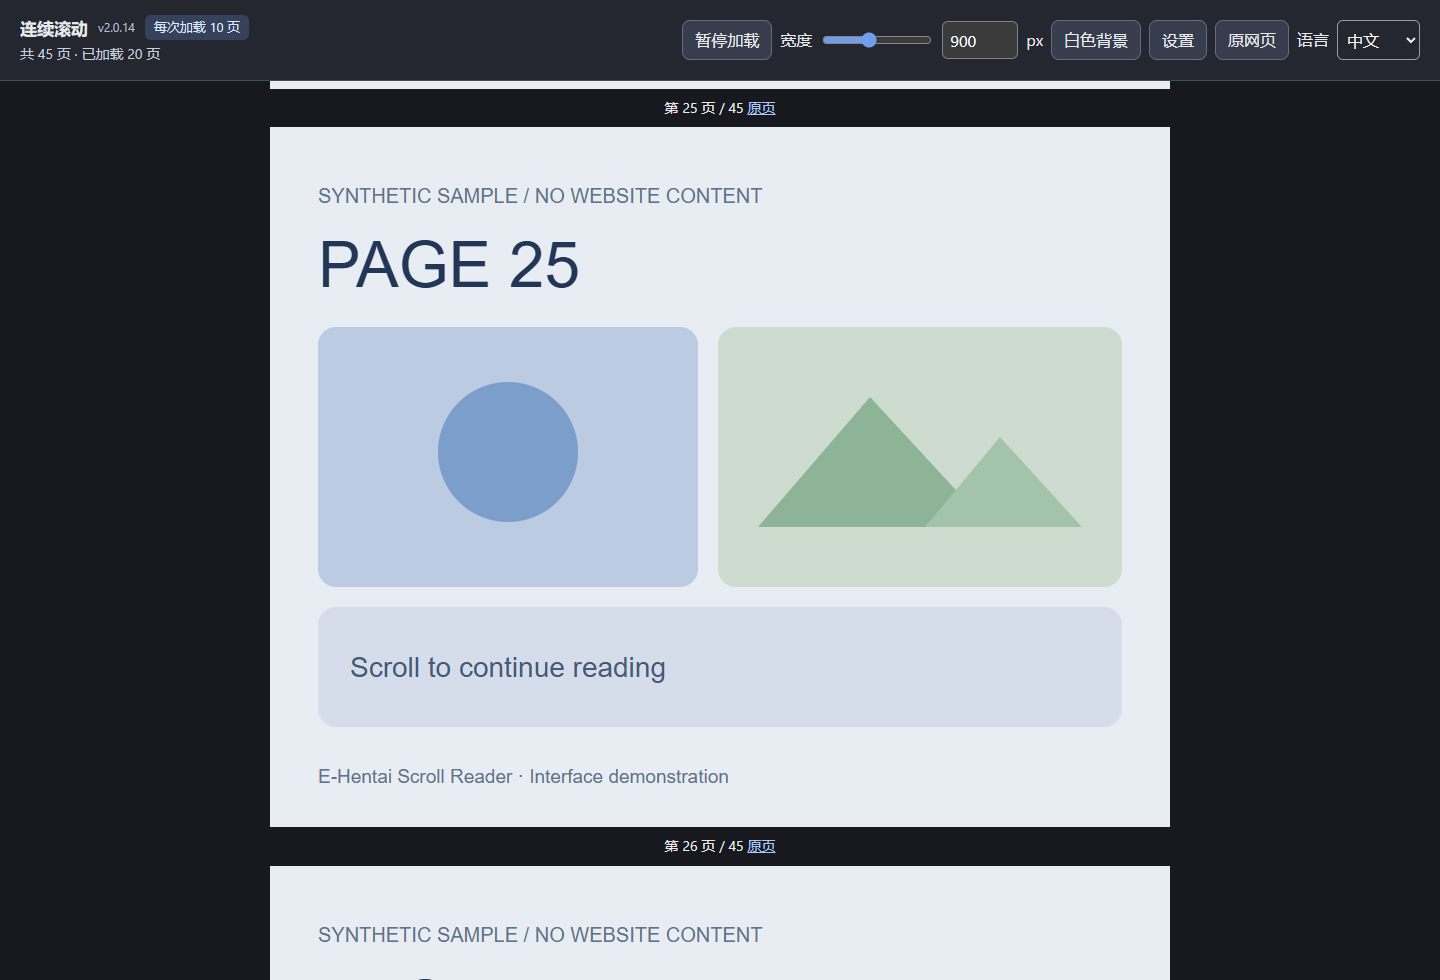
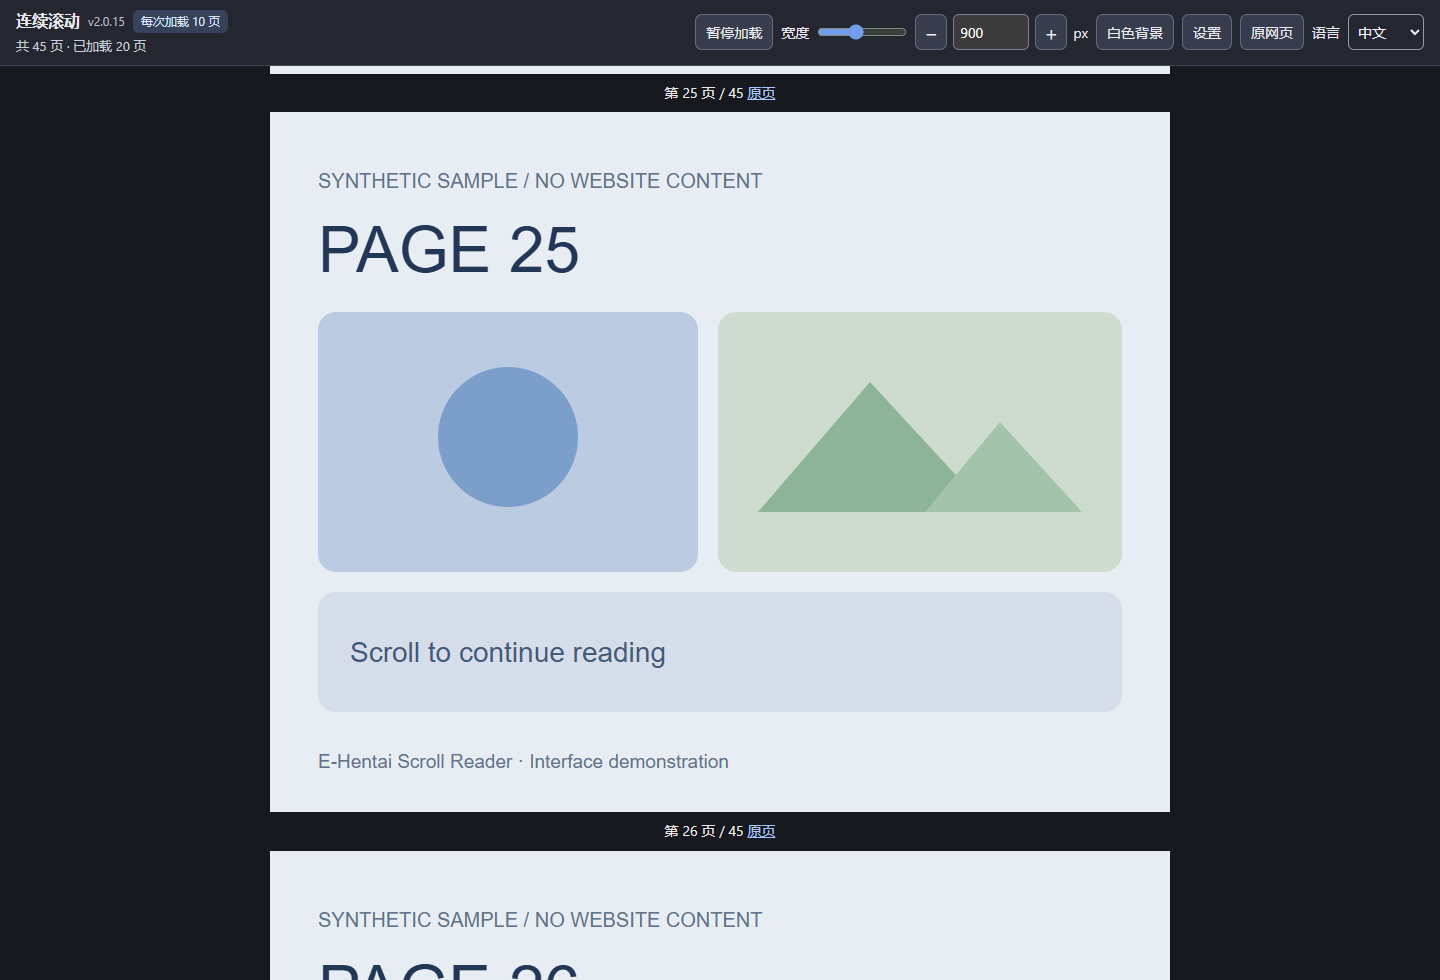
Release v2.0.15: responsive toolbar and width controls

diff --git a/reader.js b/reader.js
@@ -74,27 +74,46 @@
     :host([data-theme="light"]) #reader-settings-dialog{background:#fff;color:#20242b}
     :host([data-theme="light"]) #reader-settings-dialog small{color:#555}
     :host([data-theme="light"]) #reader-settings-dialog button{background:#eee;color:#20242b}
-    header{background:#242730;padding:12px 20px;gap:12px 24px;justify-content:space-between;font:16px/1.45 system-ui,-apple-system,"Segoe UI",sans-serif;border-bottom:1px solid #434a58}
-    .reader-summary{display:flex;flex-direction:column;gap:4px;flex:0 1 auto;text-align:left}
-    .reader-title{display:flex;align-items:center;gap:10px;flex-wrap:wrap}
-    .reader-title strong{font-size:17px;font-weight:650;white-space:nowrap}
+    header{background:#242730;padding:10px 16px;gap:10px 20px;justify-content:space-between;font:14px/1.4 system-ui,-apple-system,"Segoe UI",sans-serif;border-bottom:1px solid #434a58}
+    .reader-summary{display:flex;flex-direction:column;gap:4px;text-align:left;min-width:0}
+    .reader-title{display:flex;align-items:center;gap:8px;flex-wrap:wrap}
+    .reader-title strong{font-size:16px;font-weight:650;white-space:nowrap}
     .version{font-size:12px;color:#b7bed0}
-    .mode-badge{font-size:13px;padding:3px 9px;border-radius:6px;background:#354259;color:#dce8ff;white-space:nowrap}
-    #status{font-size:14px;color:#c6cedb;font-variant-numeric:tabular-nums}
-    #toolbar-actions{display:flex;align-items:center;justify-content:flex-end;gap:8px;flex-wrap:wrap;min-width:0}
-    #toolbar-actions button,#toolbar-actions select{font:inherit;min-height:40px;padding:7px 12px;border-radius:8px;white-space:nowrap;flex-shrink:0}
-    #toolbar-actions label{display:flex;align-items:center;gap:8px;white-space:nowrap}
-    #toolbar-actions input{font:inherit}
-    #width{width:110px;min-width:60px;accent-color:#729de9}
-    #width-number{height:38px;padding:4px 7px;border:1px solid #788298;border-radius:6px;font-variant-numeric:tabular-nums}
+    .mode-badge{font-size:12px;padding:3px 8px;border-radius:6px;background:#354259;color:#dce8ff}
+    #status{font-size:13px;color:#c6cedb;font-variant-numeric:tabular-nums}
+    #toolbar-actions{display:flex;align-items:center;gap:8px;flex-wrap:wrap;min-width:0}
+    #toolbar-actions button,#toolbar-actions select{font:inherit;min-height:36px;padding:6px 10px;border-radius:7px;white-space:nowrap}
+    #toolbar-actions>label{display:flex;align-items:center;gap:8px;margin:0!important;white-space:nowrap}
+    .width-control{display:flex;align-items:center;gap:6px;min-width:0}
+    .width-control label{white-space:nowrap}
+    #toolbar-actions input{font:inherit;min-width:0}
+    #width{width:90px;accent-color:#729de9}
+    #width-number{height:36px;padding:4px 6px;border:1px solid #788298;border-radius:6px;font-variant-numeric:tabular-nums}
+    #toolbar-actions #width-minus,#toolbar-actions #width-plus{width:32px;min-width:32px;padding:0;font-size:20px}
+    #toolbar-actions button:disabled{opacity:.45;cursor:default}
     #preference-status:empty{display:none}
     :host([data-theme="light"]) header{background:#fff;border-color:#d8dde5}
     :host([data-theme="light"]) header button{background:#f5f6f8;border-color:#c8ced8}
     :host([data-theme="light"]) .mode-badge{background:#e9effa;color:#2a4e85}
     :host([data-theme="light"]) #status,:host([data-theme="light"]) .version{color:#596273}
-    @media(max-width:1200px){#toolbar-actions{flex:1 1 100%;justify-content:flex-start}header{gap:10px}.reader-summary{flex-direction:row;align-items:center;gap:16px;flex-wrap:wrap}}
-    @media(max-width:600px){header{padding:10px;font-size:14px}#width{width:75px}.reader-title strong{font-size:16px}.reader-summary{gap:6px}#toolbar-actions{gap:6px}}
-  </style><div id="reader"><header><div class="reader-summary"><div class="reader-title"><strong>连续滚动</strong><span class="version">v2.0.14</span><span class="mode-badge">${BATCH ? '每次加载 10 页' : '全部加载'}</span></div><span id="status" role="status"></span></div><div id="toolbar-actions"><button id="pause">暂停加载</button><button id="retry" hidden>重试失败项</button><label class="width-control">宽度 <input id="width" type="range" min="400" max="1600" step="10" value="1000"><input id="width-number" aria-label="漫画宽度" type="number" min="400" max="1600" step="10" value="1000" style="width:76px"> px</label><button id="theme" aria-label="切换黑白背景">白色背景</button><span id="preference-status" role="status"></span><button id="settings">设置</button><button id="original">原网页</button></div></header><div id="help"></div><main></main><footer id="sentinel"></footer></div><button id="resume" hidden>回到滚动阅读</button>`;
+    @media(max-width:1300px){
+      header{display:grid;grid-template-columns:minmax(0,1fr);padding:10px 14px}
+      .reader-summary{flex-direction:row;align-items:center;justify-content:space-between;flex-wrap:wrap;gap:6px 16px}
+      #toolbar-actions{display:grid;grid-template-columns:auto minmax(240px,1fr) auto auto auto auto}
+      .width-control{grid-column:2;grid-row:1}#width{flex:1;width:60px}
+      #theme{grid-column:3;grid-row:1}#settings{grid-column:4;grid-row:1}#original{grid-column:5;grid-row:1}
+      #toolbar-actions>label{grid-column:6;grid-row:1}#pause{grid-column:1;grid-row:1}
+      #retry,#preference-status{grid-column:1/-1;justify-self:start}
+    }
+    @media(max-width:850px){
+      #toolbar-actions{grid-template-columns:repeat(4,minmax(0,1fr)) auto;gap:8px}
+      .width-control{grid-column:1/-1;grid-row:1}
+      #pause{grid-column:1;grid-row:2}#theme{grid-column:2;grid-row:2}#settings{grid-column:3;grid-row:2}#original{grid-column:4;grid-row:2}
+      #toolbar-actions>label{grid-column:5;grid-row:2;justify-self:end}
+    }
+    @media(max-width:700px){#toolbar-actions{grid-template-columns:repeat(4,minmax(0,1fr))}#toolbar-actions>label{grid-column:1/-1;grid-row:3}}
+    @media(max-width:480px){header{padding:8px}.reader-summary{align-items:flex-start}#toolbar-actions{grid-template-columns:repeat(2,minmax(0,1fr))}#settings{grid-column:1;grid-row:3}#original{grid-column:2;grid-row:3}#toolbar-actions>label{grid-row:4}}
+  </style><div id="reader"><header><div class="reader-summary"><div class="reader-title"><strong>连续滚动</strong><span class="version">v2.0.15</span><span class="mode-badge">${BATCH ? '每次加载 10 页' : '全部加载'}</span></div><span id="status" role="status"></span></div><div id="toolbar-actions"><button id="pause">暂停加载</button><button id="retry" hidden>重试失败项</button><div class="width-control"><label for="width">宽度</label> <input id="width" type="range" min="400" max="1600" step="10" value="1000"><button type="button" id="width-minus" aria-label="减小宽度" title="减小宽度（10 px）">−</button><input id="width-number" aria-label="漫画宽度" type="number" min="400" max="1600" step="10" value="1000" style="width:76px"><button type="button" id="width-plus" aria-label="增加宽度" title="增加宽度（10 px）">+</button><span>px</span></div><button id="theme" aria-label="切换黑白背景">白色背景</button><span id="preference-status" role="status"></span><button id="settings">设置</button><button id="original">原网页</button></div></header><div id="help"></div><main></main><footer id="sentinel"></footer></div><button id="resume" hidden>回到滚动阅读</button>`;
   const q = selector => shadow.querySelector(selector);
   q('#settings').onclick = () => globalThis.openReaderSettings(shadow, mode);
   const main = q('main');
@@ -104,6 +123,8 @@
     main.style.setProperty('--width', preferredWidth+'px');
     q('#width').value=preferredWidth;
     q('#width-number').value=preferredWidth;
+    q('#width-minus').disabled=preferredWidth<=400;
+    q('#width-plus').disabled=preferredWidth>=1600;
   }
   async function savePreference(value) {
     try { await chrome.storage.local.set(value);q('#preference-status').textContent=''; }
@@ -117,6 +138,11 @@
   q('#theme').onclick=()=>{applyTheme(host.dataset.theme==='light'?'dark':'light');savePreference({theme:host.dataset.theme});};
   q('#width-number').onchange=e=>{applyWidth(e.target.value);savePreference({width:preferredWidth});checkBottom();};
   q('#width').onchange=()=>savePreference({width:preferredWidth});
+  for(const [id,step] of [['#width-minus',-10],['#width-plus',10]])q(id).onclick=()=>{
+    const position=captureReadingPosition();
+    applyWidth(preferredWidth+step);restoreReadingPosition(position);
+    savePreference({width:preferredWidth});checkBottom();
+  };
   document.body.prepend(host);
   const style = document.createElement('style');
   style.textContent = 'html.continuous-reader-active body{margin:0!important;padding:0!important;min-width:0!important}html.continuous-reader-active body>*:not(#continuous-reader-host){display:none!important}';

diff --git a/i18n.js b/i18n.js
@@ -3,6 +3,8 @@ globalThis.readerI18n = (() => {
   let language = 'en';
   const roots = new Set(), originals = new WeakMap(), attributes = new WeakMap();
   const dictionary = {
+    '减小宽度':'Decrease width','增加宽度':'Increase width',
+    '减小宽度（10 px）':'Decrease width (10 px)','增加宽度（10 px）':'Increase width (10 px)',
     '模式和语言将在点击“应用并刷新”后一起保存。取消或关闭不会保存这次选择。':'Mode and language are saved together when you click Apply and reload. Cancel or close to discard your changes.',
     '选择模式和语言后，点击应用一起保存并刷新当前阅读页。':'Choose a mode and language, then click Apply to save both and reload the current reader.',
     '全部加载完成':'All images loaded',

diff --git a/README.md b/README.md
@@ -1,6 +1,6 @@
 # E-Hentai Scroll Reader
 
-[简体中文](README.zh-CN.md) · Version 2.0.14 · [MIT License](LICENSE)
+[简体中文](README.zh-CN.md) · Version 2.0.15 · [MIT License](LICENSE)
 
 An unofficial Chrome extension that turns E-Hentai's single-image reader into a continuous scrolling reader. Open a page and start there, with earlier and later pages still available above and below.
 
@@ -17,6 +17,10 @@ The screenshots use generated sample pages, not website or manga content.
 
 All page positions are created upfront. An empty page position does not mean the image has finished downloading. The loaded counter counts successful images. Batch boundaries near the start or end may contain fewer than 10 pages; nearby batches can overlap in time.
 
+## Toolbar update
+
+The toolbar groups controls into aligned rows in split-screen windows. Use the width **− / +** buttons to adjust by 10 px; changes are saved automatically.
+
 ## Features
 
 - English and Chinese interface; English on first use.
@@ -29,7 +33,7 @@ All page positions are created upfront. An empty page position does not mean the
 
 ## Install
 
-1. In this repository's **Releases** section, download the attached `ehentai-scroll-reader-v2.0.14.zip` file. Alternatively, use **Code → Download ZIP** for the source.
+1. In this repository's **Releases** section, download the attached `ehentai-scroll-reader-v2.0.15.zip` file. Alternatively, use **Code → Download ZIP** for the source.
 2. Extract the ZIP to a folder you will keep. Do not select or drag the ZIP itself into Chrome.
 3. Open `chrome://extensions` and turn on **Developer mode**.
 4. Click **Load unpacked** and choose the extracted folder containing `manifest.json` directly inside it.

diff --git a/docs/RELEASE-v2.0.15.md b/docs/RELEASE-v2.0.15.md
@@ -1,0 +1,21 @@
+# E-Hentai Scroll Reader v2.0.15
+
+## English
+- Cleaner toolbar layout for split-screen and narrow windows.
+- New width − / + buttons: adjust by 10 px and save automatically.
+- Both loading modes remain unchanged.
+
+Download ehentai-scroll-reader-v2.0.15.zip and extract it. Replace the files in your installed extension folder, reload the extension on chrome://extensions, then refresh the reading page. New users: enable Developer mode and choose Load unpacked for the folder containing manifest.json.
+
+Verified with local synthetic Chrome pages: English/Chinese layouts at widths 390–1920 px, width buttons, limits, saving, and position restoration after settings. Live-site testing has not been performed for this release.
+
+## 简体中文
+- 优化分屏和窄窗口工具栏排版，按钮整齐分行。
+- 新增宽度 − / ＋，每次调整 10 px，自动保存。
+- 两种加载模式保持不变。
+
+下载并解压 ehentai-scroll-reader-v2.0.15.zip，将文件覆盖到原扩展安装文件夹，在 chrome://extensions 重新加载扩展，再刷新漫画页。首次安装请开启开发者模式，点击“加载已解压的扩展程序”，选择含 manifest.json 的文件夹。
+
+已通过本地 Chrome 模拟测试：390–1920 px 中英文布局、加减宽度、边界、保存与设置后的阅读位置恢复。本版尚未进行真实网站实测。
+
+MIT License · Copyright (c) 2026 KenLim0912.

diff --git a/README.zh-CN.md b/README.zh-CN.md
@@ -1,6 +1,6 @@
 # E-Hentai 滚动阅读器
 
-[English](README.md) · 版本 2.0.14 · [MIT 许可证](LICENSE)
+[English](README.md) · 版本 2.0.15 · [MIT 许可证](LICENSE)
 
 将 E-Hentai 的单页漫画阅读界面变成连续滚动阅读。打开第几页，就从那一页开始；前后的页面仍然保留，可以向上或向下阅读。
 
@@ -17,6 +17,10 @@
 
 两种模式都会先摆出整本的页面位置。页面空位不等于图片已下载；“已加载”只统计成功加载的图片。靠近开头或结尾时，一批可能不足 10 页；附近批次可能同时加载。
 
+## 工具栏更新
+
+分屏或窄窗口下，工具栏会整齐分行。宽度旁的 **− / ＋** 每次调整 10 px，并自动保存。
+
 ## 功能
 
 - 中英文切换，首次使用默认英文。
@@ -29,7 +33,7 @@
 
 ## 安装
 
-1. 在仓库的 **Releases** 页面下载附件 `ehentai-scroll-reader-v2.0.14.zip`；也可选择 **Code → Download ZIP** 下载源码。
+1. 在仓库的 **Releases** 页面下载附件 `ehentai-scroll-reader-v2.0.15.zip`；也可选择 **Code → Download ZIP** 下载源码。
 2. 完整解压到一个固定文件夹，不要直接把 ZIP 拖进 Chrome。
 3. 在 Chrome 地址栏打开 `chrome://extensions`，开启右上角的 **开发者模式 / Developer mode**。
 4. 点击 **加载已解压的扩展程序 / Load unpacked**，选择直接包含 `manifest.json` 的文件夹。

diff --git a/CHANGELOG.md b/CHANGELOG.md
@@ -1,5 +1,12 @@
 # Changelog
 
+## 2.0.15
+
+- Align toolbar controls into responsive rows for split-screen windows.
+- Add width minus/plus buttons in 10 px steps, with saved preferences and boundary handling.
+- Keep both loading modes unchanged.
+- Verify English/Chinese layouts from 390 to 1920 px and reading-position restoration.
+
 ## 2.0.14
 
 - Keep two modes: **Load 10 pages at a time** (default) and **Load all pages**.

diff --git a/PRIVACY.md b/PRIVACY.md
@@ -1,6 +1,6 @@
 # Privacy / 隐私说明
 
-Applies to version 2.0.14. Based on inspection of the included source code.
+Applies to version 2.0.15. Based on inspection of the included source code.
 
 ## English
 
